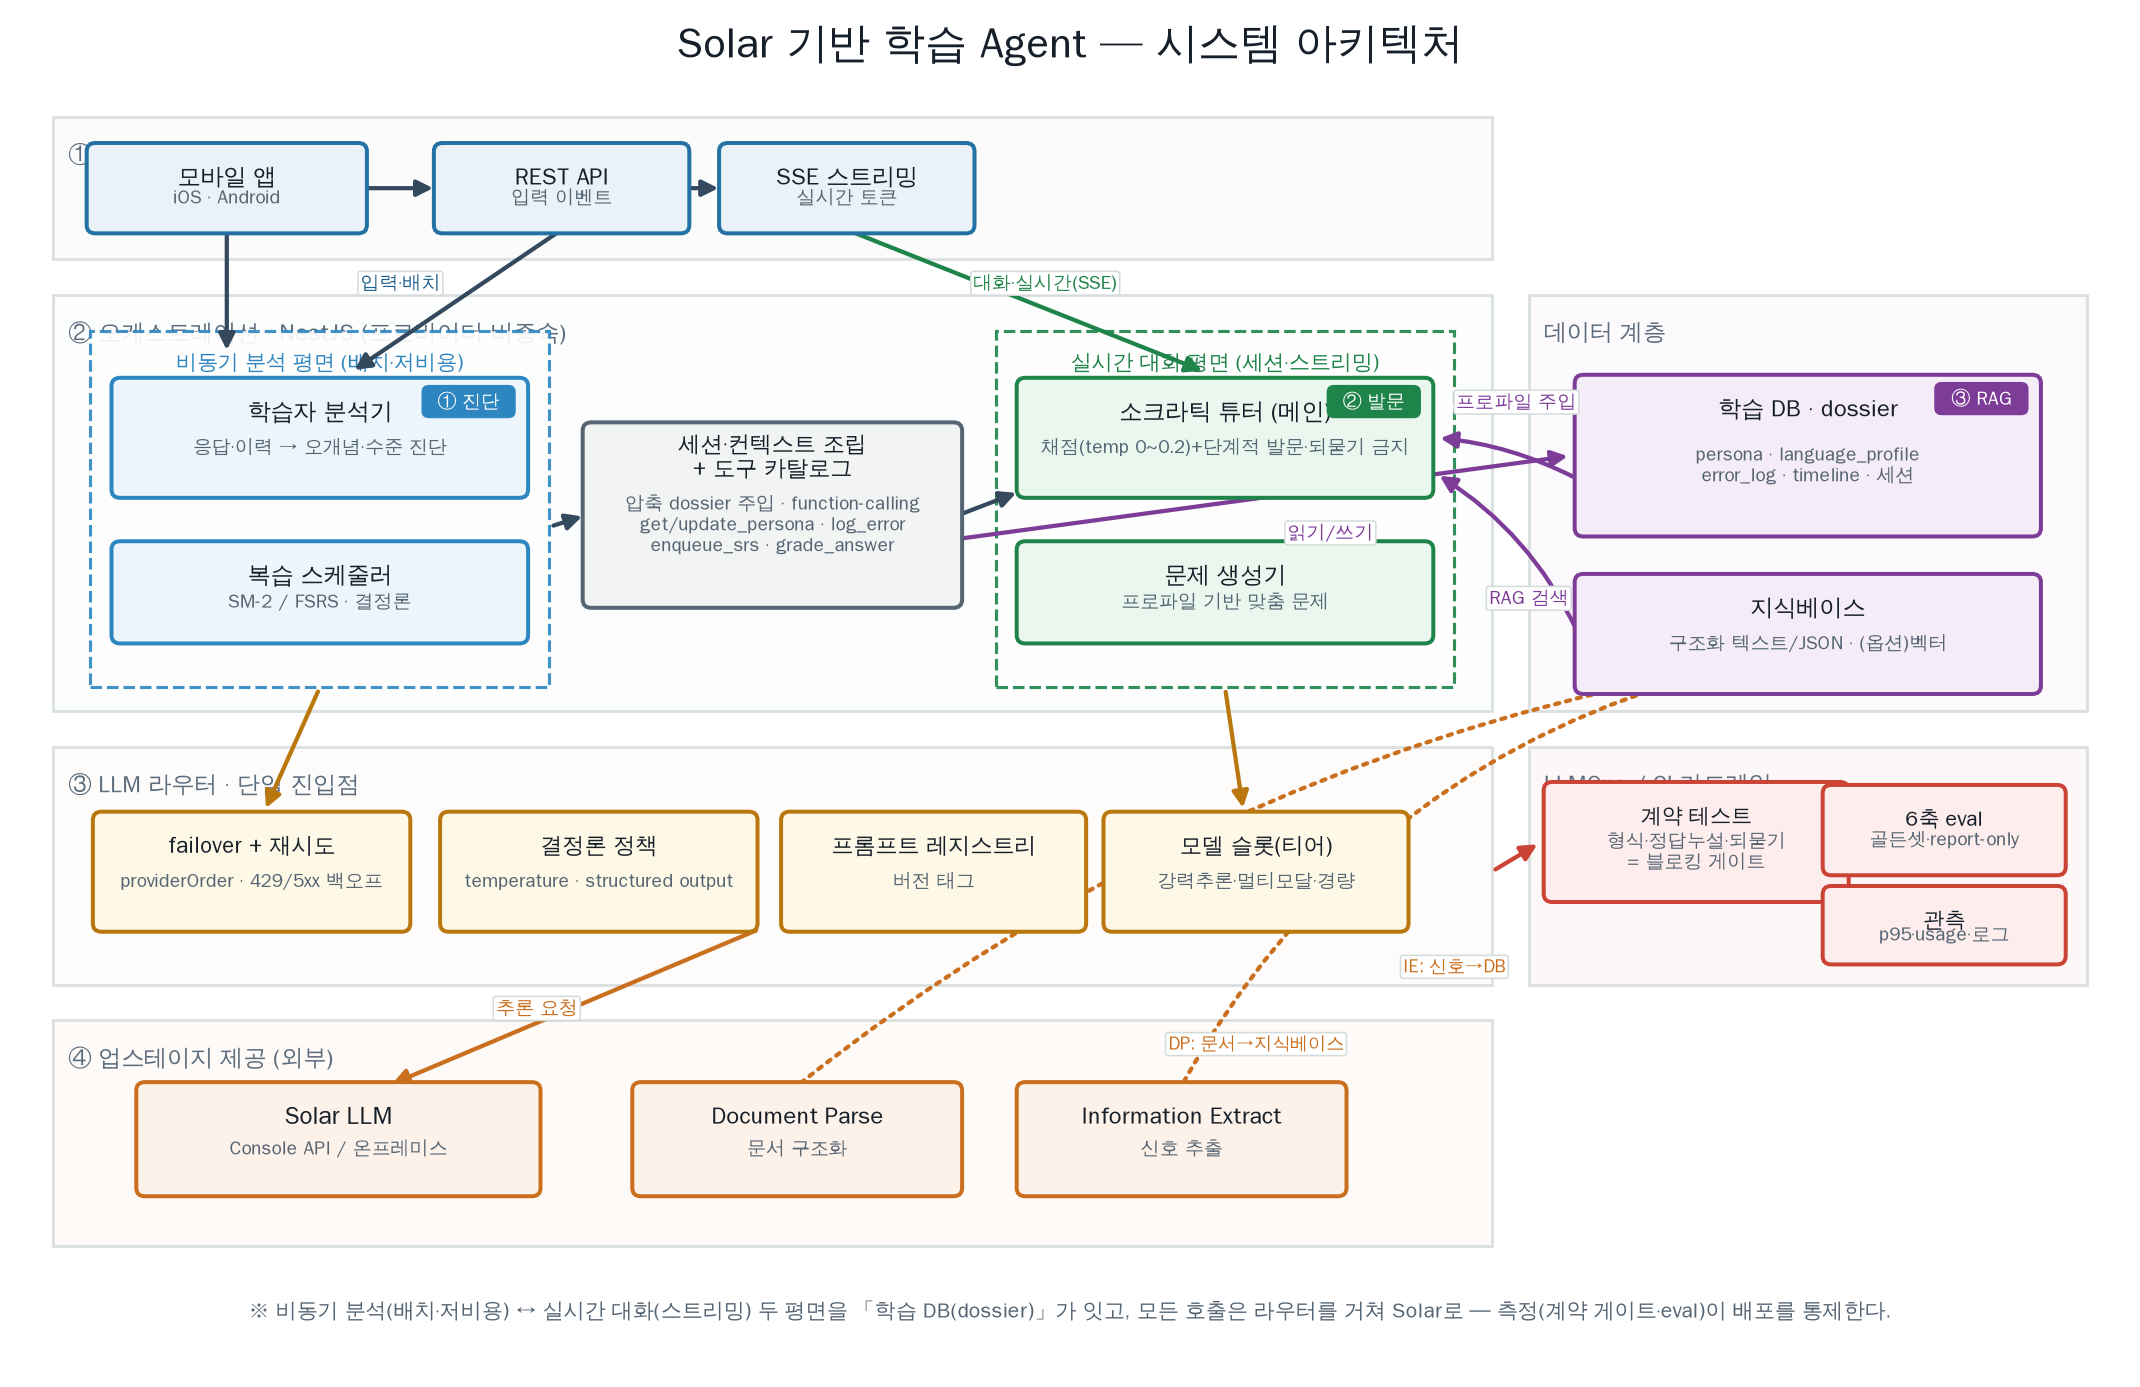
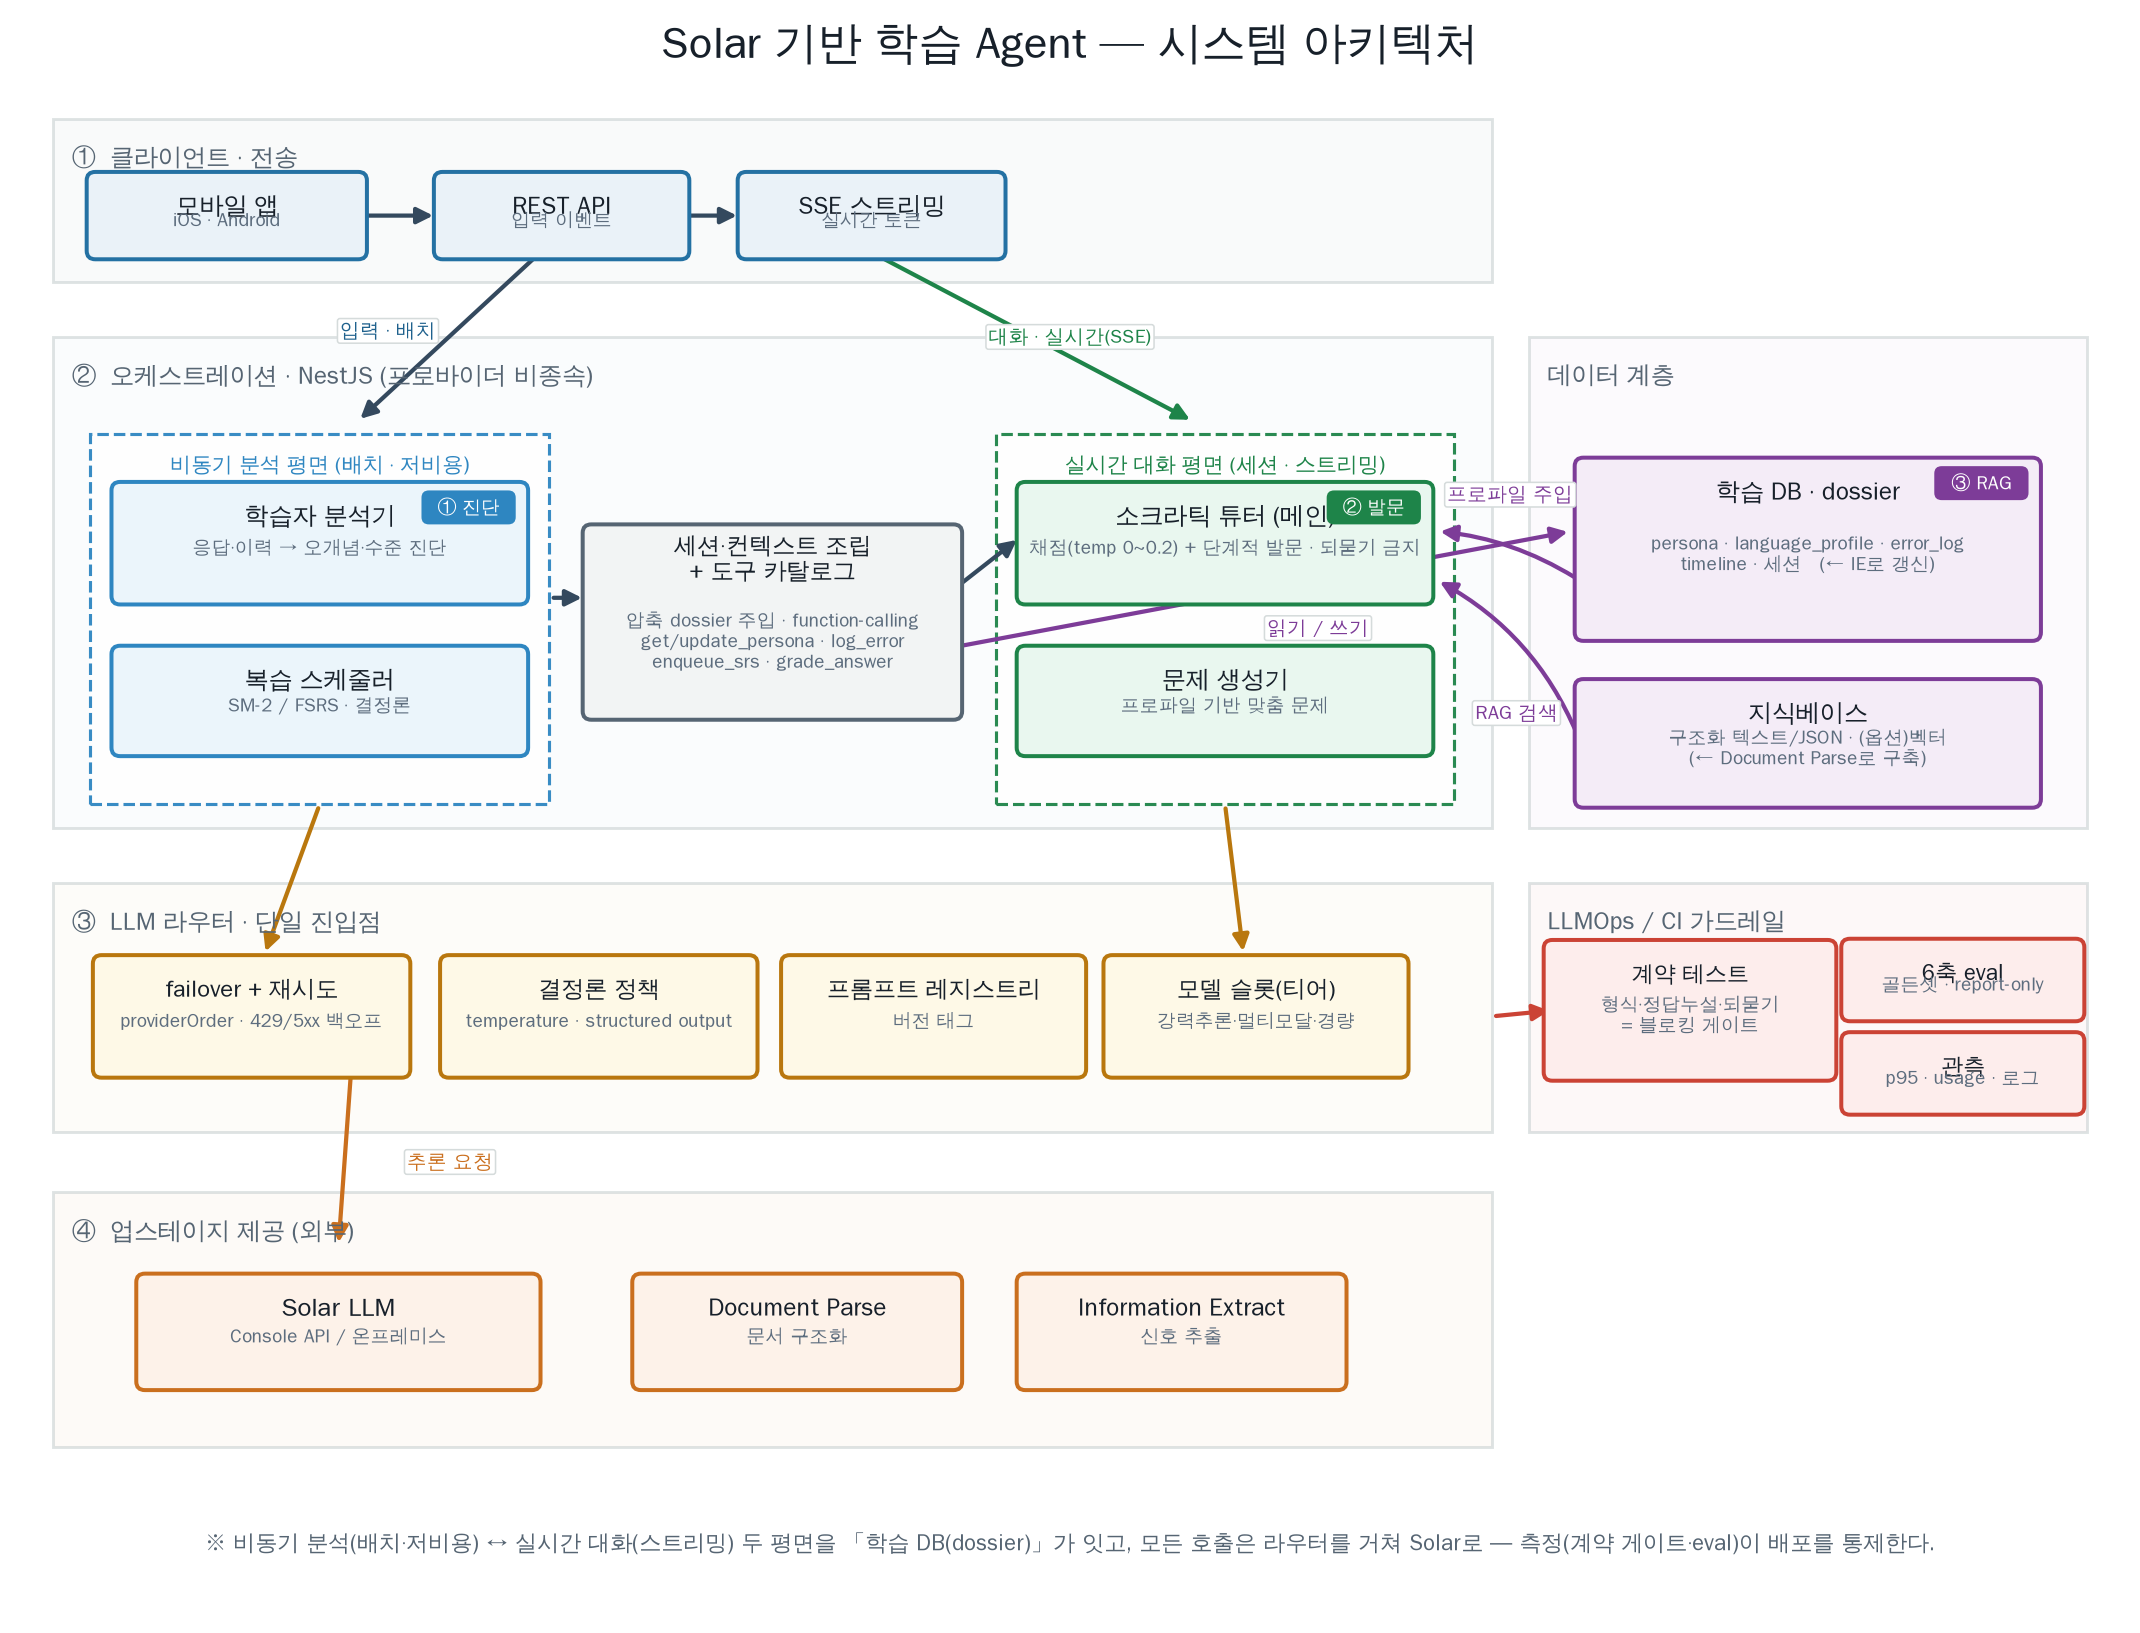
시스템 아키텍처 도식 겹침 제거 (라벨 헤드룸 확보·교차선 정리)
Claude-Session: https://claude.ai/code/session_015yWsoPS8VW5aV8RSTcSmbF

Changed region(s): [[0.0308, 0.0, 0.9869, 0.8681], [0.0925, 0.9301, 0.8944, 0.9611]]

diff --git a/proposal/techarch.py b/proposal/techarch.py
@@ -8,27 +8,27 @@ def Fn(s,b=False):
     f=FP.copy(); f.set_size(s)
     if b: f.set_weight('bold')
     return f
-fig,ax=plt.subplots(figsize=(17,11)); ax.set_xlim(0,17); ax.set_ylim(0,11.4); ax.axis('off')
-ax.text(8.5,11.05,'Solar 기반 학습 Agent — 시스템 아키텍처',ha='center',fontproperties=Fn(19,True),color='#17202A')
+fig,ax=plt.subplots(figsize=(17,13)); ax.set_xlim(0,17); ax.set_ylim(0,13.2); ax.axis('off')
+ax.text(8.5,12.85,'Solar 기반 학습 Agent — 시스템 아키텍처',ha='center',fontproperties=Fn(20,True),color='#17202A')
 
 def band(x0,y0,x1,y1,label,c):
-    ax.add_patch(Rectangle((x0,y0),x1-x0,y1-y0,fc=c,ec='#BFC9CA',lw=1.3,zorder=1,alpha=0.55))
-    ax.text(x0+0.12,y1-0.22,label,ha='left',va='top',fontproperties=Fn(10.5,True),color='#5D6D7E',zorder=2)
+    ax.add_patch(Rectangle((x0,y0),x1-x0,y1-y0,fc=c,ec='#BFC9CA',lw=1.3,zorder=1,alpha=0.5))
+    ax.text(x0+0.15,y1-0.22,label,ha='left',va='top',fontproperties=Fn(11,True),color='#566573',zorder=10)
 
 def sub(x0,y0,x1,y1,label,ec):
-    ax.add_patch(Rectangle((x0,y0),x1-x0,y1-y0,fc='white',ec=ec,lw=1.4,ls='--',zorder=2,alpha=0.9))
-    ax.text((x0+x1)/2,y1-0.18,label,ha='center',va='top',fontproperties=Fn(9.5,True),color=ec,zorder=3)
+    ax.add_patch(Rectangle((x0,y0),x1-x0,y1-y0,fc='white',ec=ec,lw=1.4,ls='--',zorder=2,alpha=0.95))
+    ax.text((x0+x1)/2,y1-0.17,label,ha='center',va='top',fontproperties=Fn(9.5,True),color=ec,zorder=3)
 
 def box(cx,cy,w,h,title,sub2,fc,ec,badge=None,bc=None,ts=11):
     ax.add_patch(FancyBboxPatch((cx-w/2,cy-h/2),w,h,boxstyle='round,pad=0.03,rounding_size=0.07',fc=fc,ec=ec,lw=1.8,zorder=4))
     if sub2:
-        ax.text(cx,cy+h/2-0.26,title,ha='center',va='center',fontproperties=Fn(ts,True),color='#17202A',zorder=6)
-        ax.text(cx,cy-0.08,sub2,ha='center',va='center',fontproperties=Fn(8.6),color='#566573',zorder=6)
+        ax.text(cx,cy+h/2-0.255,title,ha='center',va='center',fontproperties=Fn(ts,True),color='#17202A',zorder=6)
+        ax.text(cx,cy-0.04-(0.12 if title.count(chr(10)) else 0),sub2,ha='center',va='center',fontproperties=Fn(8.5),color='#5D6D7E',zorder=6)
     else:
         ax.text(cx,cy,title,ha='center',va='center',fontproperties=Fn(ts,True),color='#17202A',zorder=6)
     if badge:
-        ax.add_patch(FancyBboxPatch((cx+w/2-0.82,cy+h/2-0.30),0.74,0.26,boxstyle='round,pad=0.01,rounding_size=0.06',fc=bc,ec='none',zorder=7))
-        ax.text(cx+w/2-0.45,cy+h/2-0.17,badge,ha='center',va='center',fontproperties=Fn(8.5,True),color='white',zorder=8)
+        ax.add_patch(FancyBboxPatch((cx+w/2-0.82,cy+h/2-0.31),0.74,0.26,boxstyle='round,pad=0.01,rounding_size=0.06',fc=bc,ec='none',zorder=7))
+        ax.text(cx+w/2-0.45,cy+h/2-0.18,badge,ha='center',va='center',fontproperties=Fn(8.5,True),color='white',zorder=8)
 
 def ar(p1,p2,lab=None,lp=None,c='#34495e',lw=1.9,st='-',fs=8.6,lc='#1F618D',rad=0.0):
     ax.add_patch(FancyArrowPatch(p1,p2,arrowstyle='-|>',mutation_scale=15,lw=lw,color=c,ls=st,zorder=3,
@@ -38,71 +38,67 @@ def ar(p1,p2,lab=None,lp=None,c='#34495e',lw=1.9,st='-',fs=8.6,lc='#1F618D',rad=
         ax.text(mx,my,lab,ha='center',va='center',fontproperties=Fn(fs,True),color=lc,zorder=9,
                 bbox=dict(boxstyle='round,pad=0.13',fc='white',ec='#D5DBDB',lw=0.7))
 
-# palette
 AN='#EBF5FB'; ANe='#2E86C1'; DI='#E9F7EF'; DIe='#1E8449'; DBc='#F4ECF7'; DBe='#7D3C98'
 SO='#FDF2E9'; SOe='#CA6F1E'; OP='#FDEDEC'; OPe='#CB4335'; RTc='#FEF9E7'; RTe='#B9770E'; SEc='#F2F4F4'; SEe='#566573'
 
-# bands
-band(0.3,9.35,11.9,10.55,'① 클라이언트 · 전송','#F8F9F9')
-band(0.3,5.55,11.9,9.05,'② 오케스트레이션 · NestJS (프로바이더 비종속)','#FBFCFC')
-band(0.3,3.25,11.9,5.25,'③ LLM 라우터 · 단일 진입점','#FCFBF7')
-band(0.3,1.05,11.9,2.95,'④ 업스테이지 제공 (외부)','#FDF7F2')
-band(12.2,5.55,16.7,9.05,'데이터 계층','#FBF7FC')
-band(12.2,3.25,16.7,5.25,'LLMOps / CI 가드레일','#FDF4F3')
+# bands (generous headroom for labels)
+band(0.3,11.0,11.9,12.35,'①  클라이언트 · 전송','#F4F6F7')
+band(0.3,6.5,11.9,10.55,'②  오케스트레이션 · NestJS (프로바이더 비종속)','#F7FBFD')
+band(0.3,4.0,11.9,6.05,'③  LLM 라우터 · 단일 진입점','#FCFBF5')
+band(0.3,1.4,11.9,3.5,'④  업스테이지 제공 (외부)','#FDF6F0')
+band(12.2,6.5,16.7,10.55,'데이터 계층','#FAF6FC')
+band(12.2,4.0,16.7,6.05,'LLMOps / CI 가드레일','#FDF3F2')
 
-# L1 client
-box(1.7,9.95,2.2,0.7,'모바일 앱','iOS · Android','#EAF2F8','#2471A3',ts=10.5)
-box(4.4,9.95,2.0,0.7,'REST API','입력 이벤트','#EAF2F8','#2471A3',ts=10.5)
-box(6.7,9.95,2.0,0.7,'SSE 스트리밍','실시간 토큰','#EAF2F8','#2471A3',ts=10.5)
+# L1
+box(1.7,11.55,2.2,0.66,'모바일 앱','iOS · Android','#EAF2F8','#2471A3',ts=11)
+box(4.4,11.55,2.0,0.66,'REST API','입력 이벤트','#EAF2F8','#2471A3',ts=11)
+box(6.9,11.55,2.1,0.66,'SSE 스트리밍','실시간 토큰','#EAF2F8','#2471A3',ts=11)
 
-# L2 orchestration
-sub(0.6,5.75,4.3,8.75,'비동기 분석 평면 (배치·저비용)',ANe)
-box(2.45,7.85,3.3,0.95,'학습자 분석기','응답·이력 → 오개념·수준 진단',AN,ANe,'① 진단',ANe,ts=10.5)
-box(2.45,6.55,3.3,0.8,'복습 스케줄러','SM-2 / FSRS · 결정론',AN,ANe,ts=10.5)
-box(6.1,7.2,3.0,1.5,'세션·컨텍스트 조립\n+ 도구 카탈로그','압축 dossier 주입 · function-calling\nget/update_persona · log_error\nenqueue_srs · grade_answer',SEc,SEe,ts=10)
-sub(7.9,5.75,11.6,8.75,'실시간 대화 평면 (세션·스트리밍)',DIe)
-box(9.75,7.85,3.3,0.95,'소크라틱 튜터 (메인)','채점(temp 0~0.2)+단계적 발문·되묻기 금지',DI,DIe,'② 발문',DIe,ts=10.5)
-box(9.75,6.55,3.3,0.8,'문제 생성기','프로파일 기반 맞춤 문제',DI,DIe,ts=10.5)
+# L2
+sub(0.6,6.7,4.3,9.75,'비동기 분석 평면 (배치 · 저비용)',ANe)
+box(2.45,8.85,3.3,0.95,'학습자 분석기','응답·이력 → 오개념·수준 진단',AN,ANe,'① 진단',ANe,ts=11)
+box(2.45,7.55,3.3,0.85,'복습 스케줄러','SM-2 / FSRS · 결정론',AN,ANe,ts=11)
+box(6.1,8.2,3.0,1.55,'세션·컨텍스트 조립\n+ 도구 카탈로그','압축 dossier 주입 · function-calling\nget/update_persona · log_error\nenqueue_srs · grade_answer',SEc,SEe,ts=10.5)
+sub(7.9,6.7,11.6,9.75,'실시간 대화 평면 (세션 · 스트리밍)',DIe)
+box(9.75,8.85,3.3,0.95,'소크라틱 튜터 (메인)','채점(temp 0~0.2) + 단계적 발문 · 되묻기 금지',DI,DIe,'② 발문',DIe,ts=11)
+box(9.75,7.55,3.3,0.85,'문제 생성기','프로파일 기반 맞춤 문제',DI,DIe,ts=11)
 
-# L3 router (4 boxes)
-box(1.9,4.2,2.5,0.95,'failover + 재시도','providerOrder · 429/5xx 백오프',RTc,RTe,ts=10)
-box(4.7,4.2,2.5,0.95,'결정론 정책','temperature · structured output',RTc,RTe,ts=10)
-box(7.4,4.2,2.4,0.95,'프롬프트 레지스트리','버전 태그',RTc,RTe,ts=10)
-box(10.0,4.2,2.4,0.95,'모델 슬롯(티어)','강력추론·멀티모달·경량',RTc,RTe,ts=10)
+# L3
+box(1.9,4.95,2.5,0.95,'failover + 재시도','providerOrder · 429/5xx 백오프',RTc,RTe,ts=10.5)
+box(4.7,4.95,2.5,0.95,'결정론 정책','temperature · structured output',RTc,RTe,ts=10.5)
+box(7.4,4.95,2.4,0.95,'프롬프트 레지스트리','버전 태그',RTc,RTe,ts=10.5)
+box(10.0,4.95,2.4,0.95,'모델 슬롯(티어)','강력추론·멀티모달·경량',RTc,RTe,ts=10.5)
 
-# L4 upstage
-box(2.6,1.95,3.2,0.9,'Solar LLM','Console API / 온프레미스',SO,SOe,ts=11)
-box(6.3,1.95,2.6,0.9,'Document Parse','문서 구조화',SO,SOe,ts=10.5)
-box(9.4,1.95,2.6,0.9,'Information Extract','신호 추출',SO,SOe,ts=10.5)
+# L4
+box(2.6,2.35,3.2,0.9,'Solar LLM','Console API / 온프레미스',SO,SOe,ts=11.5)
+box(6.3,2.35,2.6,0.9,'Document Parse','문서 구조화',SO,SOe,ts=11)
+box(9.4,2.35,2.6,0.9,'Information Extract','신호 추출',SO,SOe,ts=11)
 
-# Data band (right)
-box(14.45,7.7,3.7,1.3,'학습 DB · dossier','persona · language_profile\nerror_log · timeline · 세션',DBc,DBe,'③ RAG',DBe,ts=10.5)
-box(14.45,6.2,3.7,0.95,'지식베이스','구조화 텍스트/JSON · (옵션)벡터',DBc,DBe,ts=10.5)
+# Data
+box(14.45,8.8,3.7,1.45,'학습 DB · dossier','persona · language_profile · error_log\ntimeline · 세션   (← IE로 갱신)',DBc,DBe,'③ RAG',DBe,ts=11)
+box(14.45,7.2,3.7,1.0,'지식베이스','구조화 텍스트/JSON · (옵션)벡터\n(← Document Parse로 구축)',DBc,DBe,ts=11)
 
-# Ops band (right)
-box(13.55,4.45,2.4,0.95,'계약 테스트','형식·정답누설·되묻기\n= 블로킹 게이트',OP,OPe,ts=9.5)
-box(15.55,4.55,1.9,0.7,'6축 eval','골든셋·report-only',OP,OPe,ts=9.5)
-box(15.55,3.75,1.9,0.6,'관측','p95·usage·로그',OP,OPe,ts=9.5)
+# Ops
+box(13.5,5.0,2.3,1.1,'계약 테스트','형식·정답누설·되묻기\n= 블로킹 게이트',OP,OPe,ts=10)
+box(15.7,5.25,1.9,0.62,'6축 eval','골든셋 · report-only',OP,OPe,ts=10)
+box(15.7,4.48,1.9,0.62,'관측','p95 · usage · 로그',OP,OPe,ts=10)
 
 # arrows
-ar((2.8,9.95),(3.4,9.95))                                  # app->rest
-ar((5.4,9.95),(5.7,9.95))                                  # rest->sse(visual chain)
-ar((4.4,9.6),(2.7,8.4),lab='입력·배치',lp=(3.1,9.15),fs=8.5)   # rest->analysis
-ar((1.7,9.6),(1.7,8.55),rad=0.0)                           # app down
-ar((6.7,9.6),(9.6,8.4),lab='대화·실시간(SSE)',lp=(8.3,9.15),fs=8.5,c=DIe,lc=DIe)  # sse->tutor
-ar((4.3,7.1),(4.6,7.2))                                    # analysis->sess
-ar((7.6,7.2),(8.1,7.4))                                    # sess->dialog
-ar((7.6,7.0),(12.55,7.7),lab='읽기/쓰기',lp=(10.6,7.05),fs=8.5,c=DBe,lc=DBe)  # sess<->DB
-ar((12.6,7.5),(11.45,7.85),lab='프로파일 주입',lp=(12.1,8.15),fs=8.5,c=DBe,lc=DBe,rad=0.1) # DB->tutor
-ar((12.6,6.2),(11.45,7.55),lab='RAG 검색',lp=(12.2,6.5),fs=8.5,c=DBe,lc=DBe,rad=0.15)      # KB->tutor
-ar((2.45,5.75),(2.0,4.7),c=RTe)                            # analysis->router
-ar((9.75,5.75),(9.9,4.7),c=RTe)                            # dialog->router
-ar((6.0,3.72),(3.0,2.4),lab='추론 요청',lp=(4.2,3.05),fs=8.6,c=SOe,lc=SOe)  # router->solar
-ar((11.9,4.2),(12.3,4.45),c=OPe,st='-')                    # router--ops
-ar((9.4,2.4),(13.4,5.8),lab='IE: 신호→DB',lp=(11.6,3.4),fs=8.2,c=SOe,st=':',lc=SOe,rad=-0.2) # IE->DB
-ar((6.3,2.4),(13.4,5.85),lab='DP: 문서→지식베이스',lp=(10.0,2.75),fs=8.2,c=SOe,st=':',lc=SOe,rad=-0.12) # DP->KB
+ar((2.8,11.55),(3.4,11.55))
+ar((5.4,11.55),(5.85,11.55))
+ar((4.2,11.22),(2.75,9.85),lab='입력 · 배치',lp=(3.0,10.6),fs=8.8)
+ar((6.95,11.22),(9.5,9.85),lab='대화 · 실시간(SSE)',lp=(8.5,10.55),fs=8.8,c=DIe,lc=DIe)
+ar((4.3,8.4),(4.6,8.4))
+ar((7.6,8.5),(8.1,8.9))
+ar((7.6,8.0),(12.55,8.95),lab='읽기 / 쓰기',lp=(10.5,8.15),fs=8.8,c=DBe,lc=DBe)
+ar((12.6,8.55),(11.45,8.95),lab='프로파일 주입',lp=(12.05,9.25),fs=8.8,c=DBe,lc=DBe,rad=0.12)
+ar((12.6,7.25),(11.45,8.55),lab='RAG 검색',lp=(12.1,7.45),fs=8.8,c=DBe,lc=DBe,rad=0.18)
+ar((2.45,6.7),(2.0,5.45),c=RTe)
+ar((9.75,6.7),(9.9,5.45),c=RTe)
+ar((2.7,4.47),(2.6,3.05),lab='추론 요청',lp=(3.5,3.75),fs=8.8,c=SOe,lc=SOe)
+ar((11.9,4.95),(12.4,5.0),c=OPe)
 
-ax.text(8.5,0.45,'※ 비동기 분석(배치·저비용) ↔ 실시간 대화(스트리밍) 두 평면을 「학습 DB(dossier)」가 잇고, 모든 호출은 라우터를 거쳐 Solar로 — 측정(계약 게이트·eval)이 배포를 통제한다.',
-        ha='center',fontproperties=Fn(9.5,True),color='#566573')
+ax.text(8.5,0.55,'※ 비동기 분석(배치·저비용) ↔ 실시간 대화(스트리밍) 두 평면을 「학습 DB(dossier)」가 잇고, 모든 호출은 라우터를 거쳐 Solar로 — 측정(계약 게이트·eval)이 배포를 통제한다.',
+        ha='center',fontproperties=Fn(10,True),color='#566573')
 plt.savefig('/home/user/ReelsMaking/proposal/시스템아키텍처.png',dpi=160,bbox_inches='tight',facecolor='white')
 print('SAVED')
